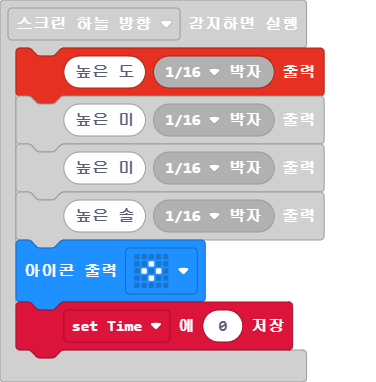
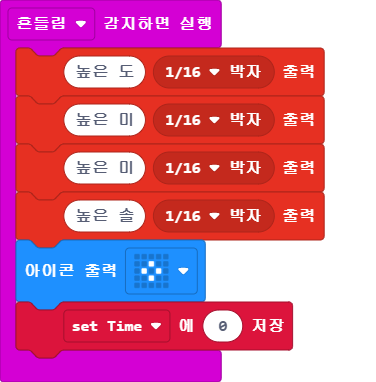
흔들림감지 추가

diff --git a/main.ts b/main.ts
@@ -46,6 +46,14 @@ input.onGesture(Gesture.ScreenUp, function () {
     basic.showIcon(IconNames.SmallDiamond)
     set_Time = 0
 })
+input.onGesture(Gesture.Shake, function () {
+    music.playTone(523, music.beat(BeatFraction.Sixteenth))
+    music.playTone(659, music.beat(BeatFraction.Sixteenth))
+    music.playTone(659, music.beat(BeatFraction.Sixteenth))
+    music.playTone(784, music.beat(BeatFraction.Sixteenth))
+    basic.showIcon(IconNames.SmallDiamond)
+    set_Time = 0
+})
 input.onGesture(Gesture.ScreenDown, function () {
     set_Time = 30
     music.playTone(988, music.beat(BeatFraction.Sixteenth))
